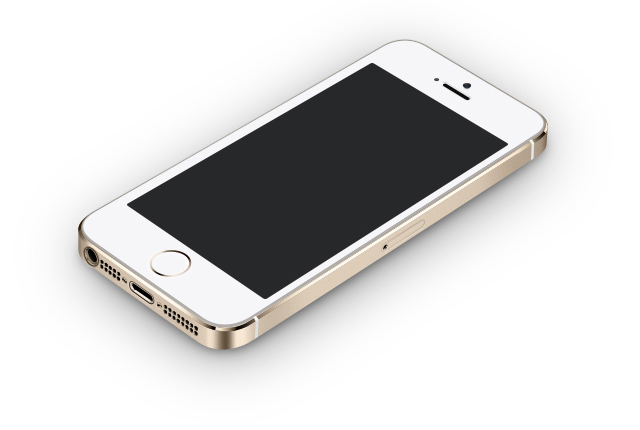
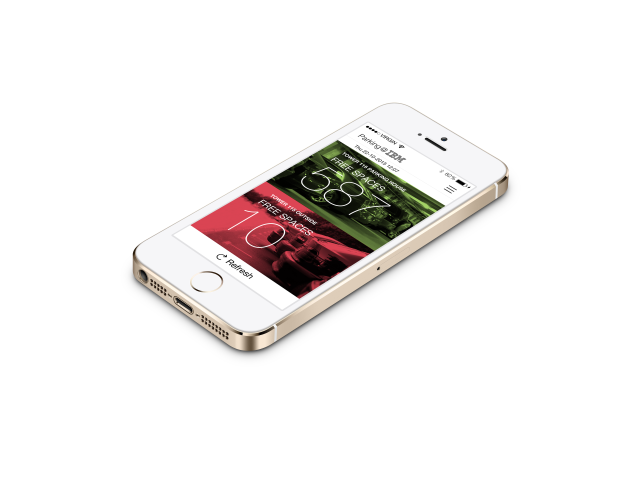
web design updates

Changed region(s): [[0.0938, 0.0907, 0.875, 0.8767], [0.6875, 0.1209, 0.7188, 0.1512]]

diff --git a/web/index.html b/web/index.html
@@ -130,9 +130,18 @@
           
           .parking-lot-api-time { margin-top: 1%;}
           
-          .parking-lot-api-label { margin-top: 20%; font-size: 30px; font-weight: bold;}
+          .parking-lot-api-label { margin-top: 20%; font-size: 30px; font-weight: bold; font-family: "HelvBoldIBM"; }
           
           .parking-lot-api-free-space { font-size: 200px; font-family: "HelvLightIBM"; margin-top: -5%; max-width: 300px}
+
+          .ibm-btn-blue-50 {
+              border-color: #00b3ef !important;
+              color: #00b3ef !important;
+          }
+
+          .ibm-btn-blue-50:hover {
+              color: white !important;;
+          }
           
     </style>
 
@@ -211,20 +220,22 @@
 <!-- LEADSPACE_END -->
 
 <div id="ibm-content-wrapper">      
-  <div id="ibm-content">
-          <div id="ibm-content-main">
+  <div>
+          <div>
           <div class="parking-app-menu-padding"></div>
           <div class="ibm-columns" style="margin: 0; width: 100%;">
               <div class="ibm-col-6-1"><div class="parking-app-menu-label-bold"><strong>Parking@IBM</strong></div></div>
-              <div class="ibm-col-6-3"></div>
-              <div class="ibm-col-6-2" style="text-align: right;">
+              <div class="ibm-col-6-4"></div>
+              <div style="text-align: right;">
                 <div class="parking-app-menu-label">iOS App</div>
                 <div class="parking-app-menu-label">Android App</div>
                 <div class="parking-app-menu-label">Community</div>                            
               </div>
           </div>    
       </div>
-  </div>        
+  </div>
+    <div class="parking-app-menu-padding"></div>
+    <div class="parking-app-menu-padding"></div>
 </div>    
 
 <div class="ibm-columns">
@@ -235,14 +246,16 @@
       <div class="parking-lot-api-time" id="park-lot-1-time">Thu 22-10-2015 10:15:17</div>
       <div class="parking-lot-api-label">FREE SPACES</div>
       <div class="parking-lot-api-free-space" id="park-lot-1-space">-</div>
-      <a class="ibm-btn-pri ibm-btn-green-50 parking-lot-app-refresh" style="background: white; border-color: #fde876; color: #4b8400" onclick="refresh1()">&#8634; REFRESH</a>
+      <a class="ibm-btn-pri ibm-btn-green-50 parking-lot-app-refresh" style="background: white; border: #4b8400; color: black;"
+         onclick="refresh1()">&#8634; Refresh</a>
     </div>
     <div class="parking-lot-app-right">
       <div class="parking-lot-api-title" id="park-lot-2-title"><strong>T115 House</strong></div>
       <div class="parking-lot-api-time" id="park-lot-2-time">Thu 22-10-2015 10:15:17</div>
       <div class="parking-lot-api-label">FREE SPACES</div>
       <div class="parking-lot-api-free-space" id="park-lot-2-space">-</div>
-      <a class="ibm-btn-pri ibm-btn-yellow-10 parking-lot-app-refresh" style="background: white; border-color: #fde876; color: rgb(218, 184, 0);" onclick="refresh2()">&#8634; REFRESH</a>
+      <a class="ibm-btn-pri ibm-btn-yellow-10 parking-lot-app-refresh" style="background: white; border: rgb(218, 184, 0); color: black;"
+         onclick="refresh2()">&#8634; Refresh</a>
     </div>
   </div>
 </div>
